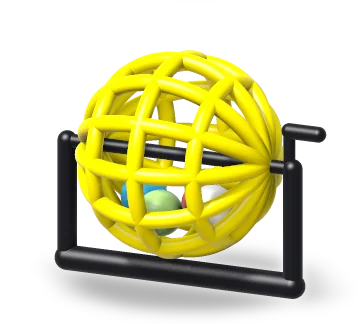
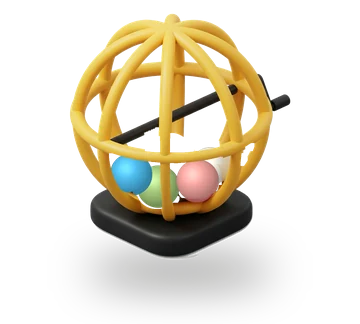
core: refazer a gaiola da sala do host como still com bolas repintadas pulando
A cena SDF da gaiola (tubos amarelos grossos girando) parecia plástico e a
emenda do loop aparecia. Entra um still 3D novo (gaiola de 8 hastes gordas,
base preta, manivela, quatro bolas pastel) recortado por lava_icons.py: o
corpo só balança 3 graus (duas oscilações por volta), as bolas do still são
apagadas da camada e repintadas por trás dela com sombreado fosco, cada uma
pulando no seu compasso; as hastes da frente ficam no still, então a oclusão
sai certa. Fase quantizada na meia-volta: o quadro i sai igual ao i + 24 e o
bundle fica em 345 KB (antes 564 KB), 360x324 com density 4 para os 120 px.

A cena SDF BingoCage foi redesenhada (8 meridianos finos de ouro, 2 anéis,
pedestal de madeira, manivela, bolas quicando, giro de 90 graus por volta com
fase dobrada para o atlas repetir) e fica como candidata reserva fora do
pubspec, em assets/lava_candidates (não versionado).

diff --git a/bingo_core/lib/src/ui/bingo_lava_icon.dart b/bingo_core/lib/src/ui/bingo_lava_icon.dart
@@ -7,8 +7,8 @@ enum BingoLavaIcon {
   /// Bola azul com o 7 (herói do lobby).
   ball('bingo_ball'),
 
-  /// Globo de bingo amarelo girando no eixo, com bolas dentro (sala do host
-  /// sem sorteio).
+  /// Gaiola de bingo amarela de hastes gordas com bolas pastel pulando
+  /// dentro; o corpo só balança (sala do host sem sorteio, 120 px).
   cage('bingo_cage'),
 
   /// Roseta amarela com estrela preta (paywall).

diff --git a/bingo_core/tool/lava_sdf_icons.py b/bingo_core/tool/lava_sdf_icons.py
@@ -3,8 +3,10 @@
 Cada cena é um objeto 3D de verdade, então ele pode GIRAR no próprio eixo, virar uma página ou
 rolar um dado - coisa que o still + balanço de `lava_icons.py` não faz. O globo do Sobre e o balão
 de ajuda já passaram por aqui e saíram: o globo voltou ao still com um balanço discreto (girar no
-canto de um título distraía) e o botão de ajuda ficou estático. Formas gordas e poucas
-(os ícones aparecem com 28 a 120 px), paleta do app.
+canto de um título distraía) e o botão de ajuda ficou estático. A gaiola de bingo (`BingoCage`,
+hastes finas de ouro girando num pedestal de madeira) continua aqui como candidata reserva em
+`assets/lava_candidates/bingo_cage_sdf` (fora do pubspec): o que o app usa é o still de
+`lava_icons.py`. Formas gordas e poucas (os ícones aparecem com 28 a 120 px), paleta do app.
 
     LAVA_TOOL=~/Developer/portifolio/packages/lava_flutter/tool
     python3 tool/lava_sdf_icons.py open_book --still 0.1 preview.png      # look-dev (~3 s)
@@ -159,62 +161,94 @@ class OpenBook(Scene):
 
 # --------------------------------------------------------------------------------------------
 class BingoCage(Scene):
-    """Bingo cage: a yellow ball of thick ribs turning on a horizontal axle over a black stand,
-    four coloured balls tumbling inside. The ribs repeat every 30 degrees, so a 120 degree turn
-    per loop is seamless."""
+    """Bingo cage: a sphere of eight thin round-section gold meridians and two rings turning on a
+    horizontal axle over a rounded wooden stand, a small crank on the right, four pastel balls
+    bouncing inside. The rib pattern repeats every 45 degrees, so a quarter turn per loop is
+    seamless and reads as a slow, steady spin. Everything else (crank: two turns per loop, balls:
+    an even number of beats) has period 1/2, so the second half of the loop is pixel-identical to
+    the first and the tile packer stores it once."""
 
     frames, fps = 48, 24
-    view_height, look_at, pitch = 3.35, (0.0, 1.30, 0.0), 14.0
+    ss = 4                                 # thin ribs: one more supersample than the other scenes
+    view_height, look_at, pitch = 3.35, (0.0, 1.22, 0.0), 14.0
     bound_radius = 2.4
     shadow_strength = 0.30
-    CENTRE = (0.0, 1.38, 0.0)
-    YAW = math.radians(-28.0)
-    TURN = math.radians(120.0)
-    R, RIB = 1.0, 0.085
-    BALLS = [(-0.42, 0.00, BLUE), (-0.12, 0.33, GREEN), (0.18, 0.66, PINK), (0.46, 0.17, CREAM)]
+    CENTRE = (0.0, 1.34, 0.0)
+    YAW = math.radians(-26.0)
+    TURN = math.radians(90.0)
+    R, RIB, RING = 1.0, 0.060, 0.052
+    BALL_R = 0.21
+    GOLD_HI, GOLD_LO = srgb(255, 236, 90), srgb(214, 168, 20)
+    WOOD, WOOD_LIGHT = srgb(120, 78, 48), srgb(158, 108, 68)
+    BALLS = [(-0.50, 0.00, BLUE), (-0.17, 0.31, GREEN), (0.17, 0.62, PINK), (0.50, 0.17, CREAM)]
 
     def __init__(self):
         self.ball_col = np.array([c for _, _, c in self.BALLS], F)
         self.materials = (
-            Material(YELLOW, spec=0.55, shininess=45.0, rim=0.20),
-            Material(INK, spec=0.45, shininess=36.0, rim=0.12),
-            Material(self.ball_paint, spec=0.7, shininess=60.0, rim=0.25),
+            Material(self.gold, spec=0.95, shininess=70.0, rim=0.22),
+            Material(self.wood, spec=0.30, shininess=28.0, rim=0.12),
+            Material(INK, spec=0.45, shininess=36.0, rim=0.10),
+            Material(self.ball_paint, spec=0.55, shininess=48.0, rim=0.22),
         )
 
     def frame_a(self, p):
         return sdf.rot_y(p - np.asarray(self.CENTRE, F), -self.YAW)
 
     def balls(self, t):
+        """Each ball sits low in the cage and hops on its own beat: the hop is |sin| (a bounce,
+        sharp at the floor, soft at the top) with an integer number of beats per loop, the drift
+        along and across the axle is a sin orbit; everything is periodic in t."""
         out = []
-        for x, ph, _ in self.BALLS:
-            a = -0.5 * math.pi + 0.55 * math.sin(TAU * (t + ph))
-            r = 0.64 - 0.16 * max(0.0, math.sin(TAU * (t + ph) + 1.2))
-            out.append([x + 0.05 * math.sin(TAU * (t + ph) * 1.0), r * math.sin(a), r * math.cos(a)])
+        for i, (x, ph, _) in enumerate(self.BALLS):
+            beats = 2 if i % 2 == 0 else 4
+            hop = abs(math.sin(math.pi * beats * (t + ph)))
+            y = -0.66 + 0.26 * hop
+            x = x + 0.06 * math.sin(TAU * 2 * (t + ph))
+            z = (0.20 if i % 2 else -0.16) + 0.08 * math.sin(TAU * 2 * (t + ph) + 0.8 + i)
+            out.append([x, y, z])
         return np.array(out, F)
 
+    def fold(self, t):
+        """Phase inside the half loop, quantised to the frame grid so that frame i and frame
+        i + frames/2 evaluate bit-identical geometry (a 45 degree rotation of the same ribs would
+        differ by float noise and the packer would store every tile twice)."""
+        return (round(t * self.frames) % (self.frames // 2)) / self.frames
+
     def parts(self, p, t):
+        t = self.fold(t)
         a = self.frame_a(p)
         c = sdf.rot_x(a, -self.TURN * t)
         ribs = None
-        for k in range(6):
-            rib = sd_torus_z(sdf.rot_x(c, k * math.pi / 6), v3(0, 0, 0), self.R, self.RIB)
+        for k in range(4):
+            rib = sd_torus_z(sdf.rot_x(c, k * math.pi / 4), v3(0, 0, 0), self.R, self.RIB)
             ribs = rib if ribs is None else np.minimum(ribs, rib)
-        ribs = np.minimum(ribs, sd_torus_x(c, v3(0, 0, 0), self.R, self.RIB))
-        side = math.sqrt(self.R ** 2 - 0.58 ** 2)
-        for sx in (-0.58, 0.58):
-            ribs = np.minimum(ribs, sd_torus_x(c, v3(sx, 0, 0), side, self.RIB))
-        axle = sdf.sd_capsule(a, v3(-1.32, 0, 0), v3(1.32, 0, 0), 0.07)
-        crank = np.minimum(sdf.sd_capsule(c, v3(1.28, 0, 0), v3(1.28, 0.40, 0), 0.06),
-                           sdf.sd_capsule(c, v3(1.28, 0.40, 0), v3(1.62, 0.40, 0), 0.08))
-        feet = [sdf.rot_y(np.array([[sx, 0.0, 0.0]], F), self.YAW)[0] + np.asarray(self.CENTRE, F) for sx in (-1.32, 1.32)]
-        posts = np.minimum.reduce([sdf.sd_capsule(p, f, v3(f[0], 0.12, f[2]), 0.10) for f in feet])
-        bar = sdf.sd_capsule(p, v3(feet[0][0], 0.13, feet[0][2]), v3(feet[1][0], 0.13, feet[1][2]), 0.13)
-        stand = np.minimum.reduce([axle, crank, posts, bar])
-        balls = sd_spheres(a, self.balls(t), np.full(4, 0.24, F))
-        return [(ribs, 0), (stand, 1), (balls, 2)]
+        for sx in (-0.52, 0.52):
+            ribs = np.minimum(ribs, sd_torus_x(c, v3(sx, 0, 0), math.sqrt(self.R ** 2 - sx ** 2), self.RING))
+        hubs = sd_spheres(c, np.array([[-1.0, 0, 0], [1.0, 0, 0]], F), np.full(2, 0.085, F))
+        ribs = np.minimum(ribs, hubs)
+        axle = sdf.sd_capsule(a, v3(-1.30, 0, 0), v3(1.30, 0, 0), 0.05)
+        k = sdf.rot_x(a, -TAU * 2 * t)          # crank: two turns per loop
+        arm = sdf.sd_capsule(k, v3(1.28, 0, 0), v3(1.28, 0.34, 0), 0.045)
+        knob = sdf.sd_capsule(k, v3(1.30, 0.34, 0), v3(1.56, 0.34, 0), 0.075)
+        feet = [sdf.rot_y(np.array([[sx, 0.0, 0.0]], F), self.YAW)[0] + np.asarray(self.CENTRE, F) for sx in (-1.22, 1.22)]
+        posts = np.minimum.reduce([sd_box(sdf.rot_y(p - v3(f[0], 0.0, f[2]), -self.YAW), v3(0, 0.74, 0),
+                                          (0.075, 0.62, 0.11), 0.05) for f in feet])
+        plinth = sd_box(sdf.rot_y(p, -self.YAW), v3(0, 0.11, 0), (1.42, 0.11, 0.58), 0.07)
+        wood = np.minimum(posts, plinth)
+        wood = np.minimum(wood, knob)
+        balls = sd_spheres(a, self.balls(t), np.full(4, self.BALL_R, F))
+        return [(ribs, 0), (wood, 1), (np.minimum(axle, arm), 2), (balls, 3)]
+
+    def gold(self, scene, p, n, t):
+        k = np.clip(0.5 + 0.5 * n[:, 1], 0.0, 1.0)
+        return mix(const(self.GOLD_LO, p), self.GOLD_HI, k)
+
+    def wood(self, scene, p, n, t):
+        k = np.clip(0.4 + 0.6 * n[:, 1], 0.0, 1.0)
+        return mix(const(self.WOOD, p), self.WOOD_LIGHT, k)
 
     def ball_paint(self, scene, p, n, t):
-        return self.ball_col[nearest(self.frame_a(p), self.balls(t))]
+        return self.ball_col[nearest(self.frame_a(p), self.balls(self.fold(t)))]
 
 
 # --------------------------------------------------------------------------------------------
@@ -452,11 +486,12 @@ def main(argv):
     scene = SCENES[name]()
     if "--still" in argv:
         at = argv.index("--still")
-        Image.fromarray(sdf.render_frame(scene, float(argv[at + 1]), 3)).save(argv[at + 2])
+        Image.fromarray(sdf.render_frame(scene, float(argv[at + 1]), getattr(scene, "ss", 3))).save(argv[at + 2])
         return
     frames_dir = argv[1]
     os.makedirs(frames_dir, exist_ok=True)
-    jobs = [(name, i, scene.frames, 3, os.path.join(frames_dir, f"frame_{i:03d}.png")) for i in range(scene.frames)]
+    ss = getattr(scene, "ss", 3)
+    jobs = [(name, i, scene.frames, ss, os.path.join(frames_dir, f"frame_{i:03d}.png")) for i in range(scene.frames)]
     with Pool(max(1, (os.cpu_count() or 2) - 2)) as pool:
         paths = pool.map(_render, jobs)
     print(f"{name}: {len(paths)} frames @ {scene.fps} fps -> {frames_dir}")

diff --git a/bingo_core/tool/lava_icons.py b/bingo_core/tool/lava_icons.py
@@ -8,7 +8,12 @@ openlava_encode.py) sem alterá-lo: cada ícone é uma subclasse de `Subject` re
     python3 $LAVA_TOOL/openlava_encode.py assets/lava/bingo_ball --webp 90 frames/bingo_ball/frame_*.png
     python3 tool/lava_icons.py repack assets/lava/wifi_table frames/wifi_table   # 360x324 -> 270x243, 24 q @ 15 fps
 
-Ícones que precisam girar de verdade (gaiola, livro, dado...) são cenas 3D em `lava_sdf_icons.py`.
+Ícones que precisam girar de verdade (livro, dado, lápis) são cenas 3D em `lava_sdf_icons.py`. A gaiola
+de bingo passou por lá e voltou: a cena SDF (hastes de tubo amarelo girando) parecia plástico e a emenda
+do loop aparecia; o still de hastes gordas com as bolas repintadas e pulando (`BingoCage`) ficou melhor.
+
+    LAVA_SCALE=2 python3 tool/lava_icons.py bingo_cage stills/cage.png frames/bingo_cage   # 360x324
+    python3 $LAVA_TOOL/openlava_encode.py assets/lava/bingo_cage --fps 24 --webp 88 --density 4 frames/bingo_cage/frame_*.png
 
 Paleta do app (neo-brutalista pastel): amarelo #FFEB3B, azul #4FC3F7, verde #AED581, creme #FFFDF5,
 contorno #121212. Movimentos são funções de sin(2*pi*t) para que metade dos quadros repita a outra
@@ -59,11 +64,110 @@ class BingoBall(BingoSubject):
 
 
 class BingoCage(BingoSubject):
-    """Globo de bingo: giro lento simulado por um balanço mais amplo e um leve tremor das bolas."""
+    """Gaiola de bingo (sala do host, 120 px): o still de uma gaiola de poucas hastes gordas com
+    quatro bolas pastel dentro. O corpo só balança 3 graus, sem subir; as bolas do still são
+    apagadas da camada e redesenhadas por trás dela (as hastes da frente que as cruzam ficam
+    no still, então a oclusão sai certa) e cada uma pula no seu próprio compasso, com um balanço
+    lateral pequeno. Nenhum giro falso: a gaiola parece viva sem emenda no loop."""
     fill = 0.76
+    LIGHT = (-0.40, -0.48)     # direção do brilho nas bolas, em raios (luz do alto à esquerda)
+    # (x, y, raio, cor, fase, pulos por volta) em unidades do raio da esfera a partir do centro
+    # dela, de trás para a frente, medidos no still (as bolas do still são apagadas, estas são
+    # pintadas no lugar). Fases 0 / 0.5 e pulos pares deixam o quadro t igual ao 0.5 - t, como o
+    # balanço: metade dos quadros repete e o atlas cai pela metade.
+    BALLS = [(0.38, 0.50, 0.19, (255, 250, 236), 0.5, 4), (-0.13, 0.70, 0.21, GREEN, 0.0, 2),
+             (-0.40, 0.58, 0.21, BLUE, 0.5, 2), (0.26, 0.64, 0.21, (255, 172, 166), 0.0, 4)]
+
+    def __init__(self, obj):
+        super().__init__(obj)
+        a = np.array(obj).astype(int)
+        r, g, b, al = a[..., 0], a[..., 1], a[..., 2], a[..., 3]
+        solid = al > 128
+        # hastes: amarelo e o laranja sombreado delas (vermelho acima do verde, azul bem abaixo)
+        rib = solid & (r > g + 10) & (b < 0.62 * g + 10) & (r - b > 40)
+        bright = solid & (r > 150) & (g > 110) & (b < 120) & (r - b > 80)
+        ys, xs = np.where(bright)
+        self.cage_r = 0.5 * (xs.max() - xs.min())
+        self.cage_c = (0.5 * (xs.max() + xs.min()), ys.min() + self.cage_r)
+        yy, xx = np.mgrid[0:self.oh, 0:self.ow]
+        self.inside = (xx - self.cage_c[0]) ** 2 + (yy - self.cage_c[1]) ** 2 < (0.97 * self.cage_r) ** 2
+        # só a faixa das bolas: acima dela estão o eixo e os reflexos quase brancos das hastes,
+        # que passariam no teste de "creme" e levariam a borda iluminada do eixo junto
+        lower = yy > self.cage_c[1] + 0.26 * self.cage_r
+        # preto do eixo e da base: só os blocos grandes (a sombra escura na borda das bolas não)
+        dark = np.zeros((self.oh, self.ow), bool)
+        for m in component_masks(solid & (a[..., :3].max(axis=2) < 80), min_px=int(0.05 * self.cage_r ** 2)):
+            dark |= m
+        # com a borda iluminada (cinza) do eixo junto: ela não é bola
+        dark = np.array(Image.fromarray(dark.astype(np.uint8) * 255).filter(ImageFilter.MaxFilter(4 * SS + 1))) > 0
+        # as bolas do still: os pixels pastel da metade de baixo da esfera e, à volta deles, tudo
+        # que não é haste nem preto (a sombra escura na borda de cada bola)
+        chroma = a[..., :3].max(axis=2) - a[..., :3].min(axis=2)
+        pastel = ((b > r + 30) & (b > 150)) | ((g > r + 15) & (g > b + 15) & (g > 140)) | \
+                 ((r > g + 25) & (b > g - 20) & (r > 190) & (g > 120)) | ((a[..., :3].min(axis=2) > 185) & (chroma < 45))
+        seed = solid & self.inside & lower & ~rib & ~dark & pastel
+        near = np.array(Image.fromarray(seed.astype(np.uint8) * 255).filter(ImageFilter.MaxFilter(6 * SS + 1))) > 0
+        ball_px = solid & self.inside & lower & ~rib & ~dark & near
+        # o topo das bolas coloridas sobe acima da faixa: azul, verde e rosa não existem em mais
+        # nada da gaiola, então saem em toda a metade de baixo (o creme ficaria com os reflexos)
+        tinted = ((b > r + 30) & (b > 150)) | ((g > r + 12) & (g > b + 12) & (g > 85)) | \
+                 ((r > g + 25) & (b > g - 20) & (r > 190) & (g > 120))
+        ball_px |= solid & self.inside & (yy > self.cage_c[1]) & tinted & ~rib
+        ball_px = np.array(Image.fromarray(ball_px.astype(np.uint8) * 255).filter(ImageFilter.MaxFilter(3 * SS + 1))) > 0
+        ball_px &= ~dark
+        body = np.array(obj).astype(np.float32)
+        body[..., 3] *= ~ball_px
+        self.body = Image.fromarray(body.astype(np.uint8))
+
+    def _ball(self, layer, cx, cy, rad, col):
+        """Esfera pintada fosca: lambert suave, brilho largo e discreto, borda um pouco mais escura."""
+        x0, y0 = int(cx - rad - 2), int(cy - rad - 2)
+        x1, y1 = int(cx + rad + 3), int(cy + rad + 3)
+        x0, y0, x1, y1 = max(x0, 0), max(y0, 0), min(x1, self.ow), min(y1, self.oh)
+        yy, xx = np.mgrid[y0:y1, x0:x1]
+        dx, dy = (xx - cx) / rad, (yy - cy) / rad
+        d2 = dx * dx + dy * dy
+        cover = np.clip((1.0 - np.sqrt(d2)) * rad + 0.5, 0.0, 1.0)      # borda antisserrilhada
+        nz = np.sqrt(np.clip(1.0 - d2, 0.0, 1.0))
+        lx, ly = self.LIGHT
+        ln = math.sqrt(lx * lx + ly * ly + 0.75 ** 2)
+        lamb = np.clip((dx * lx + dy * ly + nz * 0.75) / ln, 0.0, 1.0)
+        shade = 0.72 + 0.30 * lamb
+        spec = np.exp(-((dx - lx * 0.6) ** 2 + (dy - ly * 0.6) ** 2) / 0.16) * 0.16
+        rgb = np.asarray(col, np.float32)[None, None, :] * shade[..., None] + 255.0 * spec[..., None]
+        rgb = rgb * (0.88 + 0.12 * nz)[..., None]
+        alpha = cover * self.inside[y0:y1, x0:x1]
+        dst = layer[y0:y1, x0:x1]
+        a = alpha[..., None]
+        dst[..., :3] = rgb * a + dst[..., :3] * (1 - a)
+        dst[..., 3] = alpha * 255 + dst[..., 3] * (1 - alpha)
+
+    def fold(self, t):
+        """Fase dentro da meia-volta, quantizada na grade de quadros: o quadro i sai bit a bit igual
+        ao i + n/2 (sin(4*pi*t) avaliado em t e t + 0.5 difere por ruído de float e o empacotador
+        guardaria cada tile duas vezes)."""
+        n = self.n_frames
+        return (round(t * n) % (n // 2)) / n
+
+    def layer(self, t):
+        t = self.fold(t)
+        balls = np.zeros((self.oh, self.ow, 4), np.float32)
+        cx0, cy0, R = self.cage_c[0], self.cage_c[1], self.cage_r
+        for bx, by, br, col, ph, beats in self.BALLS:
+            hop = abs(math.sin(math.pi * beats * (t + ph)))
+            rad = br * R
+            x = cx0 + bx * R + 0.06 * rad * math.sin(2 * math.pi * (t + ph))
+            y = cy0 + by * R - (0.22 if beats == 2 else 0.14) * rad * hop
+            self._ball(balls, x, y, rad, col)
+        img = Image.fromarray(np.clip(balls, 0, 255).astype(np.uint8))
+        img.alpha_composite(self.body)
+        return img
 
     def motion(self, t):
-        return rock(t, 8.0), 0.0, 0.0, 1 + 0.03 * math.sin(2 * math.pi * t), 1.0
+        # duas oscilações por volta, como os pulos: o quadro i é igual ao i + 24 e o atlas cabe
+        # em 450 KB com WebP 88 (uma só oscilação dava 26 poses únicas e 518 KB)
+        t = self.fold(t)
+        return rock(2 * t, 3.0), 0.0, 0.0, 1 + 0.02 * math.sin(4 * math.pi * t), 1.0
 
 
 class PremiumBadge(BingoSubject):
@@ -281,6 +385,8 @@ SUBJECTS = {
 # fundo branco com sombra assada: a sombra cinza neutra da metade de baixo vai junto com o fundo.
 KEY = {
     "bingo_ball": dict(shadow_min=120),
+    # as hastes fecham células em 2D: o branco preso dentro da esfera não tem caminho até a borda
+    "bingo_cage": dict(shadow_min=120, neutral_pockets=225, pocket_chroma=14),
     "premium_badge": dict(shadow_min=120),
     "trophy": dict(shadow_min=120),
 }
